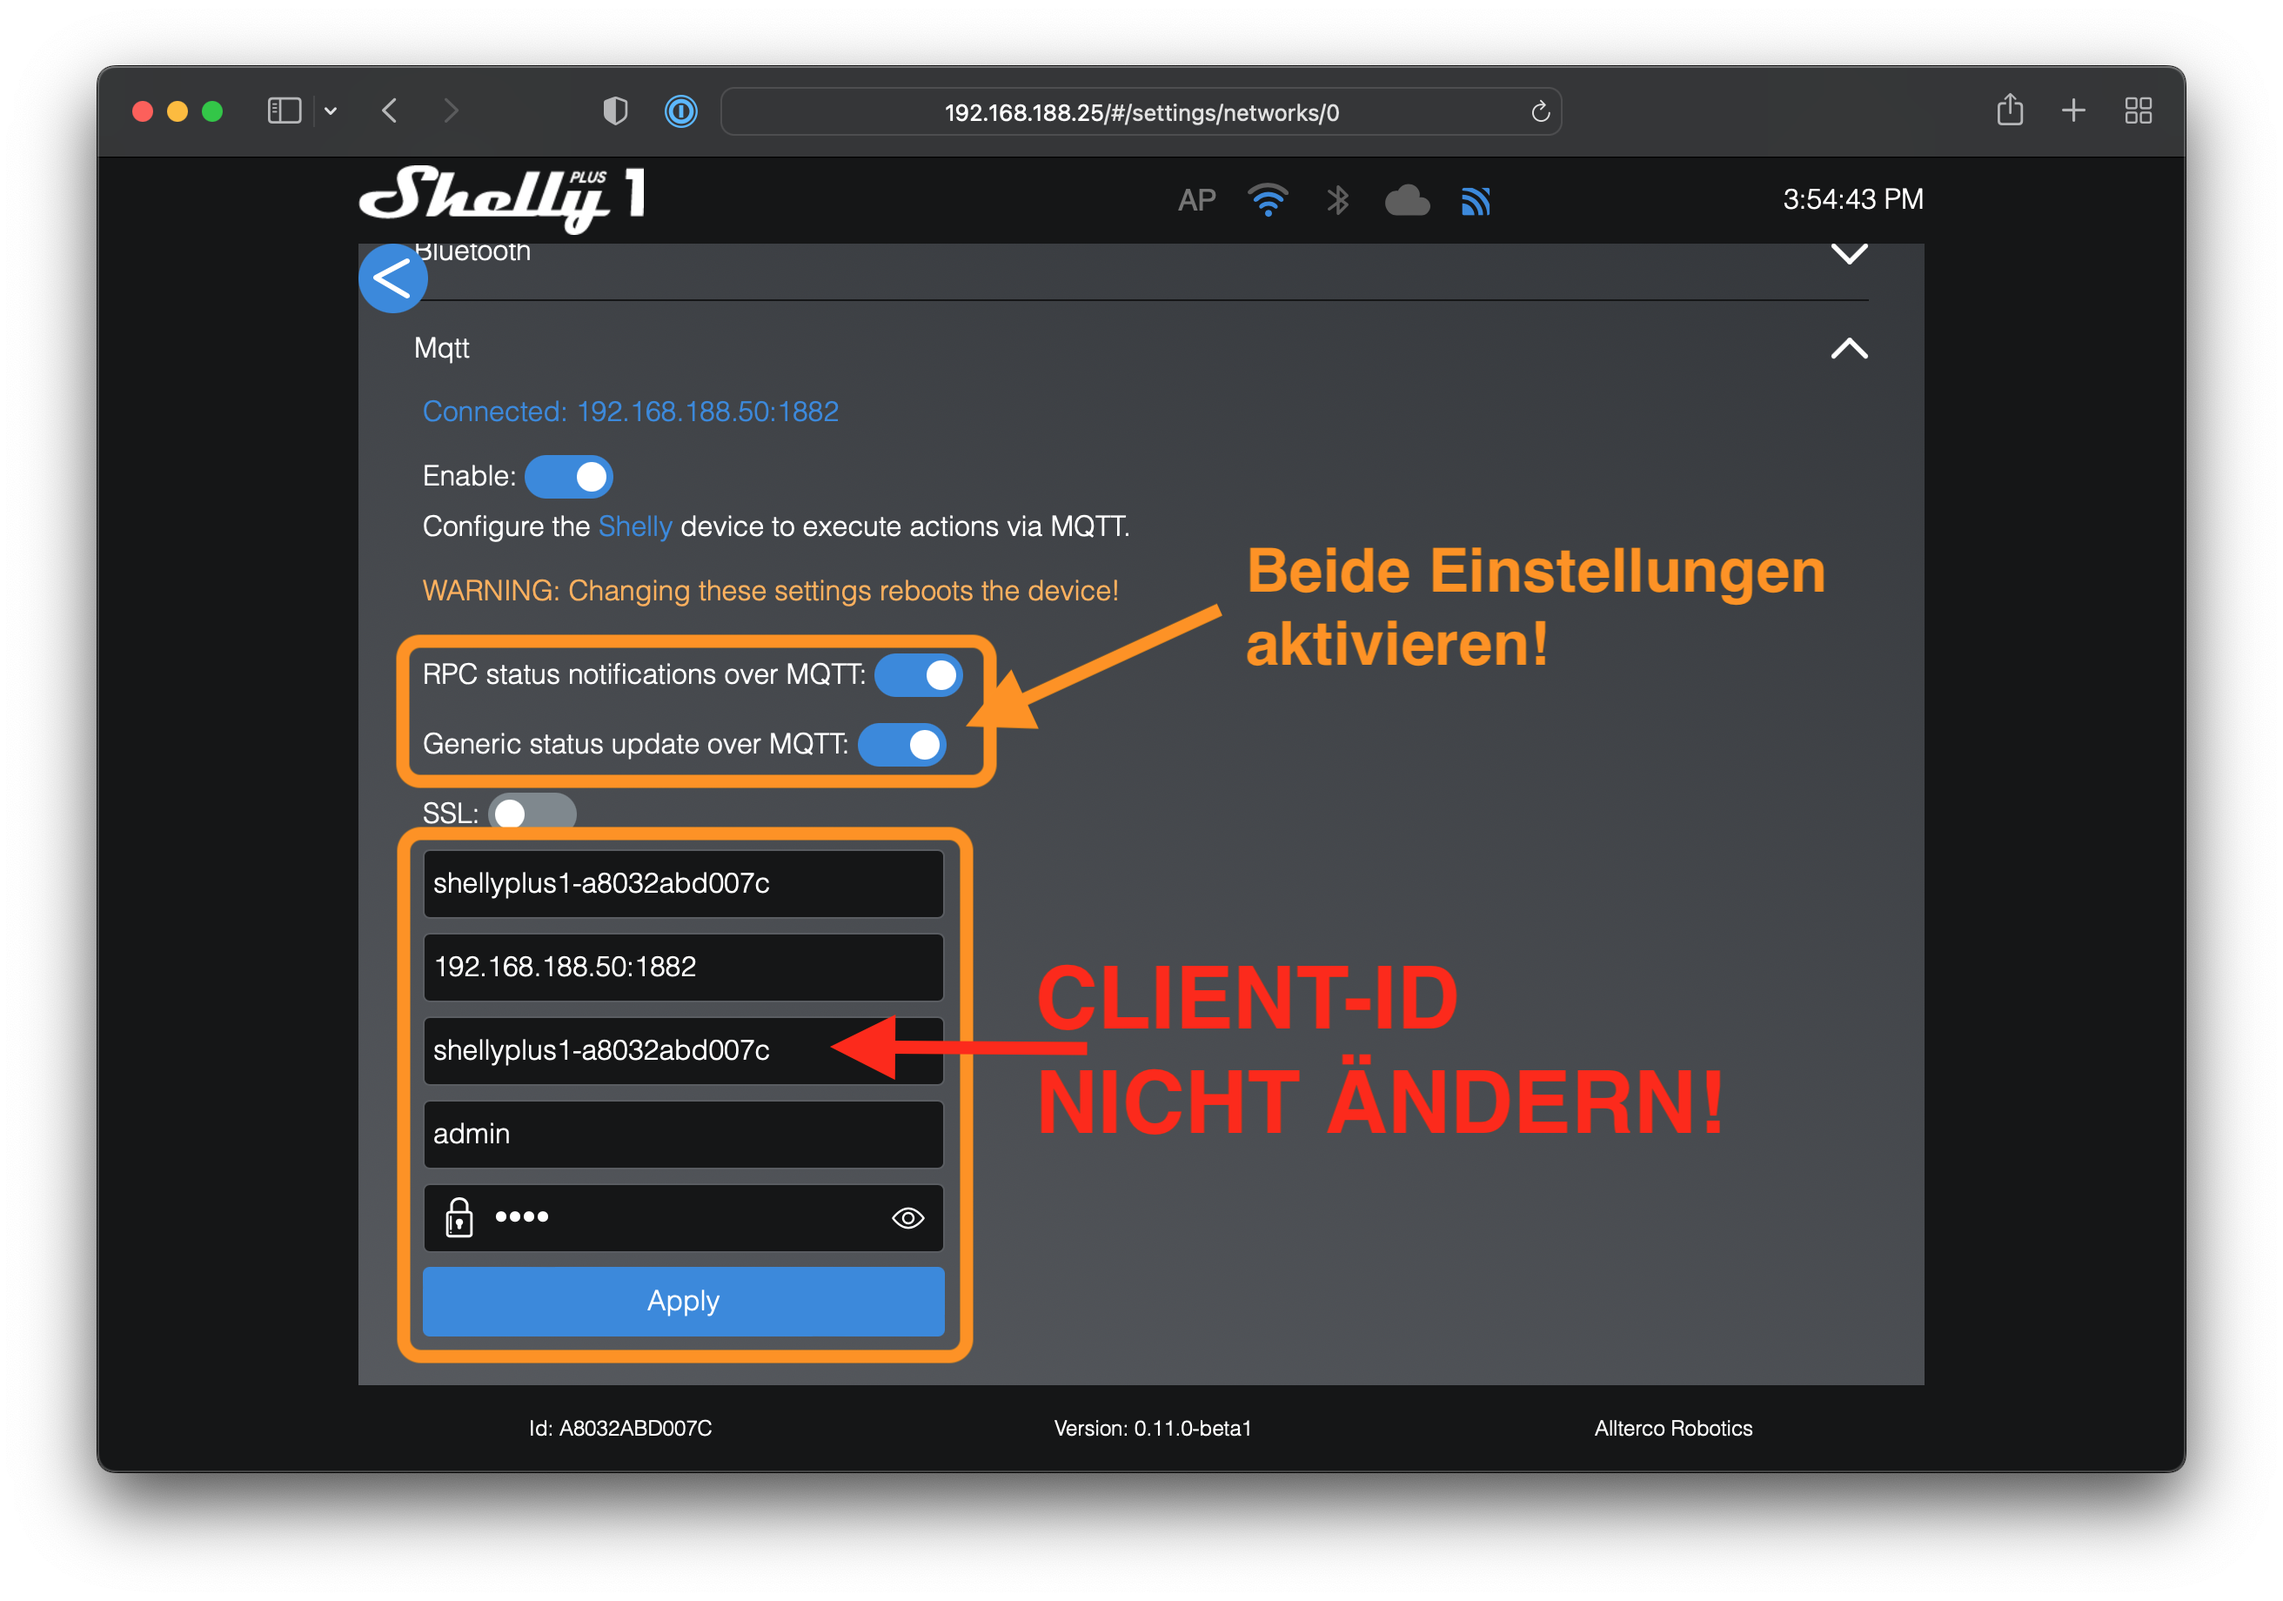
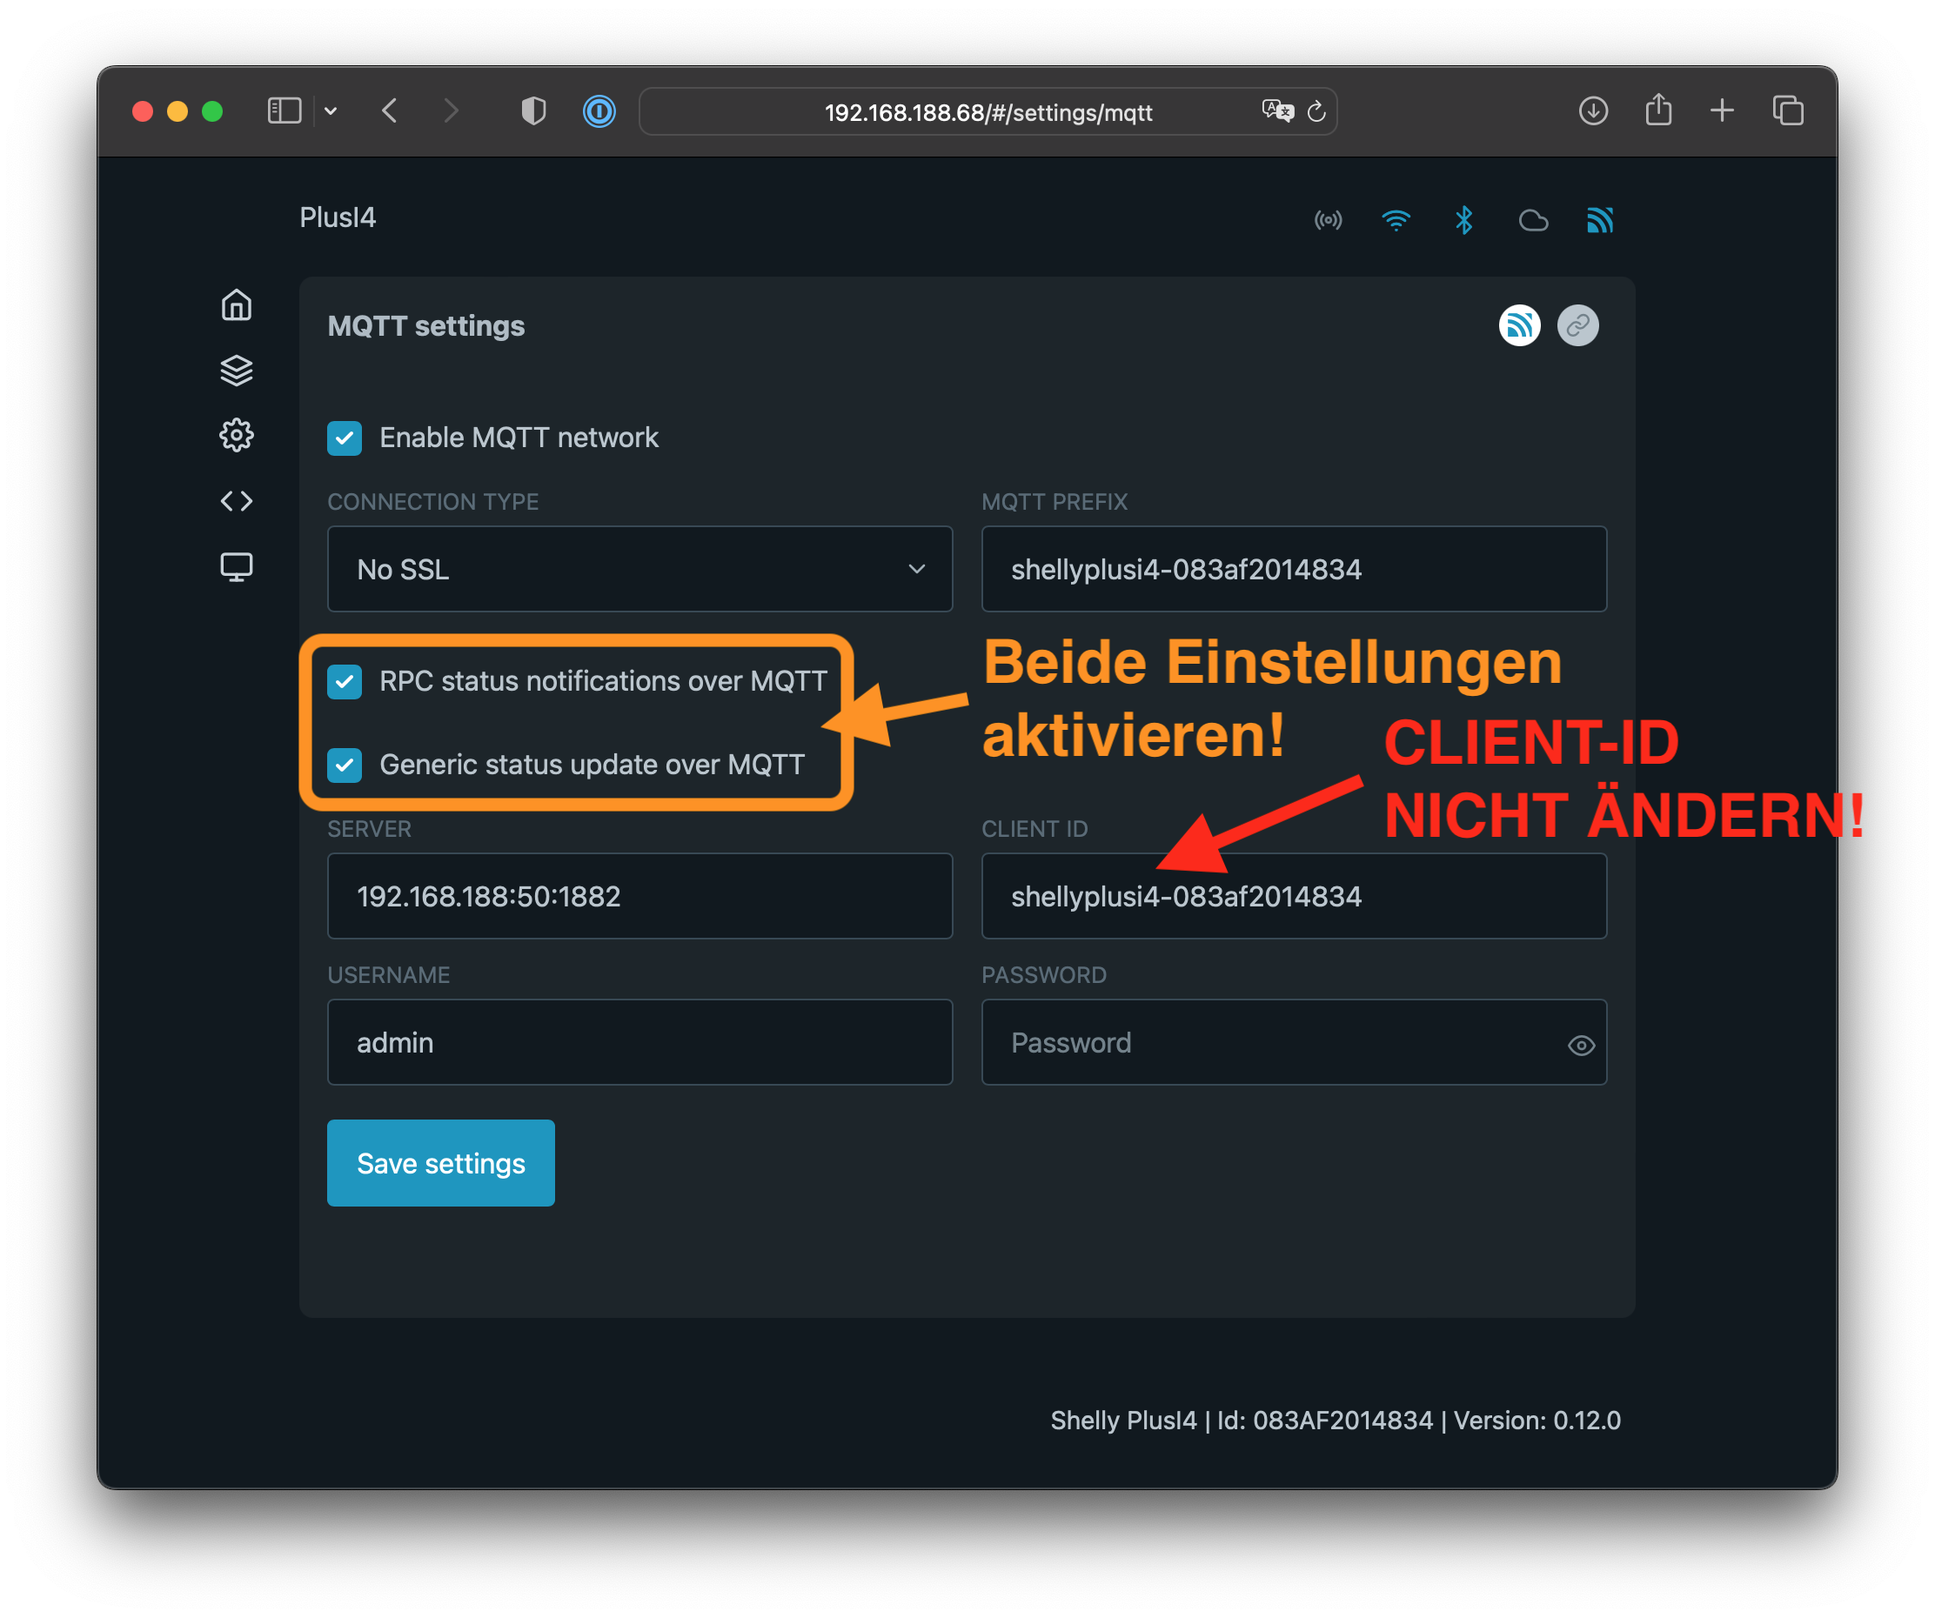
Updated documentation

diff --git a/README.md b/README.md
@@ -61,8 +61,8 @@ Uses the default Shelly firmware (no flashing of firmware needed!). You will fin
 | Shelly Plug 2 (SHPLG-2)              | >= v3.3.0 | >= v3.3.0 | n/a                                      |
 | Shelly Sense (SHSEN-1)               | >= v3.3.0 | >= v3.3.0 | n/a                                      |
 | Shelly Bulb (SHBLB)                  | >= v3.3.0 | >= v3.3.0 | n/a                                      |
-| Shelly Bulb Duo (SHBDUO-1)           | >= v3.3.0 | >= v3.3.0 | 20220809-123026/v1.12-g99f7e0b           |
-| Shelly Color Bulb (SHCB-1)           | >= v4.0.5 | >= v4.0.5 | 20220809-122808/v1.12-g99f7e0b           |
+| Shelly Bulb Duo (SHBDUO-1)           | >= v3.3.0 | >= v3.3.0 | 20221027-090712/v1.12.1-ga9117d3         |
+| Shelly Color Bulb (SHCB-1)           | >= v4.0.5 | >= v4.0.5 | 20221027-085547/v1.12.1-ga9117d3         |
 | Shelly Vintage (SHVIN-1)             | >= v3.3.0 | >= v3.3.0 | n/a                                      |
 | Shelly Uni (SHUNI-1)                 | >= v4.0.4 | >= v4.0.4 | 20221027-121732/v1.12.1-ga9117d3         |
 | Shelly Button (SHBTN-1)              | >= v3.3.3 | >= v3.3.3 | 20220809-124206/v1.12-g99f7e0b           |

diff --git a/docs/de/protocol-mqtt.md b/docs/de/protocol-mqtt.md
@@ -42,10 +42,12 @@ Aktiviere MQTT auf deinen Shelly-Geräten.
 4. Speichere die Konfiguration - der Shelly startet automatisch neu
 
 - **Ändere nicht die "client id" in dieser Konfiguration**
-- **Für Generation 2 Geräte müssen alle RPC-Optionen aktiviert werden (siehe Screenshot)!**
+- **Für Generation 2 Geräte müssen alle RPC-Optionen aktiviert werden (siehe Screenshots)!**
 - SSL darf nicht aktiviert werden
 
 ![shelly_mqtt gen2](./img/shelly_mqtt-gen2.png)
+
+![shelly_mqtt gen2](./img/shelly_mqtt-gen2-old.png)
 
 ### Quality of Service (QoS)
 

diff --git a/docs/en/protocol-mqtt.md b/docs/en/protocol-mqtt.md
@@ -42,10 +42,12 @@ Activate MQTT on all your Shelly devices.
 4. Apply the configuration - the Shelly will reboot automatically
 
 - **Do not change the "client id" in this configuration**
-- **You have to enable all RPC notification options for gen 2 devices (see screenshot)!**
+- **You have to enable all RPC notification options for gen 2 devices (see screenshots)!**
 - SSL has to be disabled!
 
 ![shelly_mqtt gen2](./img/shelly_mqtt-gen2.png)
+
+![shelly_mqtt gen2](./img/shelly_mqtt-gen2-old.png)
 
 ### Quality of Service (QoS)
 
